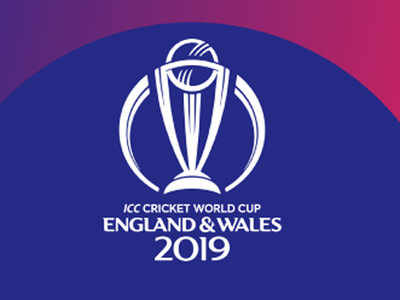
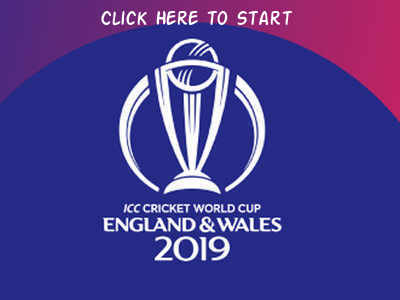
Final Cut of Changes to ICC WC 2019

Changed region(s): [[0.24, 0.03, 0.75, 0.09]]

diff --git a/src/app/admin/admin.component.html b/src/app/admin/admin.component.html
@@ -11,14 +11,17 @@
               <select id="winner" class="form-control"
                       ngModel name="winnerTeamName" required>
                 <option value=""> - Select Winner - </option>
-                <option value="KXIP">Kings XI Punjab</option>
-                <option value="CSK">Chennai Super Kings</option>
-                <option value="MI">Mumbai Indians</option>
-                <option value="DC">Delhi Capitals</option>
-                <option value="KKR">Koltaka Knight Riders</option>
-                <option value="RR">Rajasthan Royals</option>
-                <option value="SRH">Sunrisers Hyderabad</option>
-                <option value="RCB">Royal Challengers Benguluru</option>
+                <option value="AUS">Australia</option>
+                <option value="IND">India</option>
+                <option value="SA">South Africa</option>
+                <option value="NZ">New Zealand</option>
+                <option value="ENG">England</option>
+                <option value="PAK">Pakistan</option>
+                <option value="SL">Srilanka</option>
+                <option value="WI">West Indies</option>
+                <option value="BAN">Bangladesh</option>
+                <option value="AFG">Afghanistan</option>
+                <option value="NORESULT">~No Result~</option>
               </select>
           </div>
 
@@ -30,6 +33,7 @@
                 <option value="EASY">EASY</option>
                 <option value="MEDIUM">MEDIUM</option>
                 <option value="HARD">HARD</option>
+                <option value="NORESULT">~No Result~</option>
               </select>
           </div>
 

diff --git a/src/app/tournaments/tournaments.component.html b/src/app/tournaments/tournaments.component.html
@@ -9,8 +9,8 @@
       <br>
       <br>
       <a role="button" (click)="onSelectIpl()" style="cursor: pointer">
-        <img src="assets/images/icc.jpg" style="max-height: 200px; max-width: 500px; border-radius:15px; border: solid 1px blue"
-             class="d-block h-10 w-100 img-fluid" alt="...">
+        <img src="assets/images/icc.jpg" style="max-height: 300px; max-width: 500px; border-radius:15px; border: solid 1px blue"
+             class="d-block h-20 w-100 img-fluid" alt="...">
       </a>
 
 <!--      <br>-->

diff --git a/src/app/navigation/nav-header/nav-header.component.html b/src/app/navigation/nav-header/nav-header.component.html
@@ -9,7 +9,7 @@
   <div class="right-nav">
 
       <div style="display:flex;align-items: center;font-size:0.6em;" *ngIf="loggedIn">
-          {{ socialUser.lastName | uppercase}}
+          {{ socialUser.firstName | uppercase}} {{ socialUser.lastName | uppercase}}
       </div>
 
       <div *ngIf=loggedIn>

diff --git a/src/app/matches/matches.component.html b/src/app/matches/matches.component.html
@@ -52,7 +52,7 @@
   <app-list-view></app-list-view>  
 </div>
 <div>
-    <span>
+    <span *ngIf="user.groupId === 2">
         <a class="btn btn-block btn-secondary" routerLink="/admin"><b>Submit Match Result</b></a>
     </span>
 </div>
